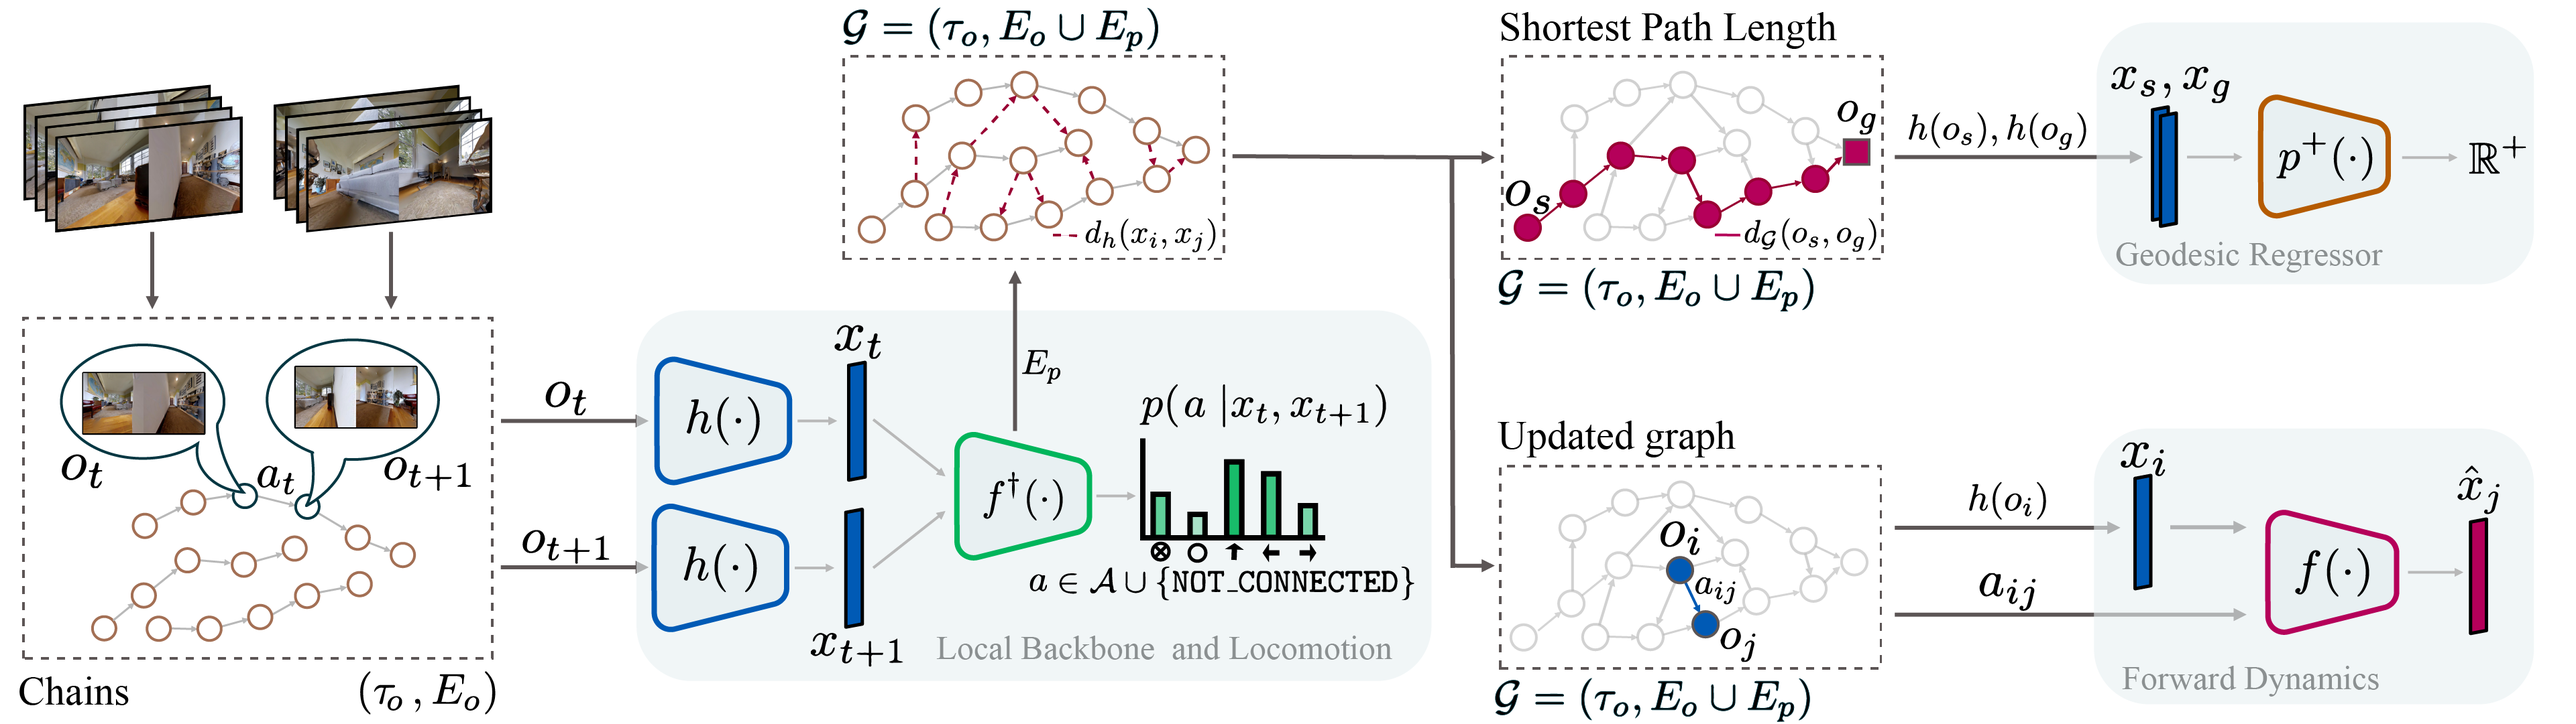
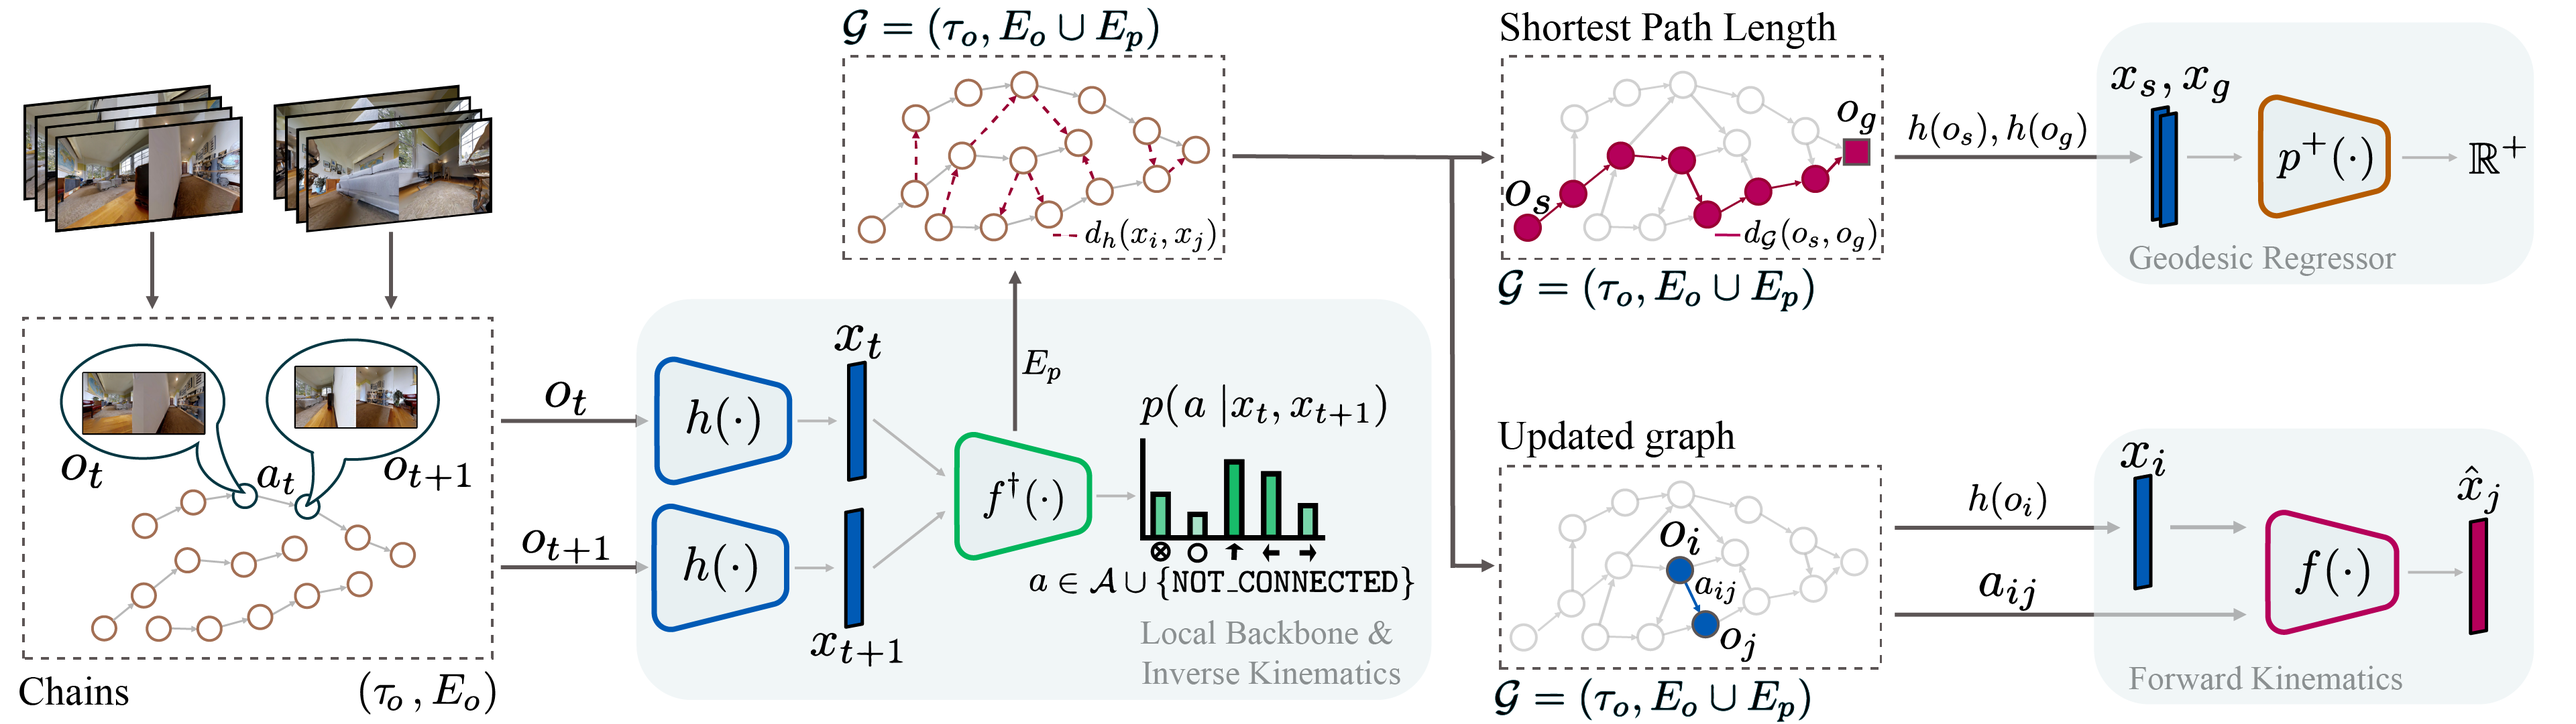
Updated diagrams, renamed components and announced publication

Changed region(s): [[0.3749, 0.8548, 0.5624, 0.9463], [0.8123, 0.9158, 0.9373, 0.9769], [0.8123, 0.3358, 0.9373, 0.3969]]

diff --git a/index.md b/index.md
@@ -10,6 +10,8 @@ permalink: index.html
 <!--Actual Page-->
 <h1 style="text-align: center; font-family: Helvetica, sans-serif">One-4-All: Neural Potential Fields for Embodied Navigation</h1>
 
+<h3 style="text-align: center; font-family: Helvetica, sans-serif">IEEE/RSJ International Conference on Intelligent Robots and Systems (IROS 2023)</h3>
+
 {% include_relative _relative_includes/authors.html %}
 <div style="text-align: center;"><em>*Authors contributed equally.</em></div>
 <br>
@@ -51,7 +53,7 @@ actions $\actiontraj = \{a_t\}_{t=1}^T$, without pose: </p>
 takes as input RGB images  to produce low-dimensional latent codes $\code \in \latentspace$ and is trained with a 
 self-supervised time contrastive objective. Once trained, the local backbone can output a local metric $\norm{\code_t - \code_s}$
 to measure similarity between observations. The extracted codes will also be used as inputs for other modules;</li>
-<li>The <a style="font-weight: bold">locomotion head </a> $\conn$ (center) uses pairs of latent codes to predict the action required to 
+<li>The <a style="font-weight: bold">inverse kinematics head </a> $\conn$ (center) uses pairs of latent codes to predict the action required to 
 traverse from one latent code to the other (order matters), or the inability to do so through the 
 $\mathtt{NOT\_CONNECTED}$ output;</li>
 </ul>
@@ -60,7 +62,7 @@ $\mathtt{NOT\_CONNECTED}$ output;</li>
 $\graph$, where nodes represent images. Edges represent one-action traversability and are weighted using the local metric. 
 $\graph$ will not be required for navigation, and is only relied on to derive training objectives for the last two components:</p> 
 <ul>
-<li>The <a style="font-weight: bold">forward dynamics
+<li>The <a style="font-weight: bold">forward kinematics
 head </a> (bottom right) $\fd$ is trained using edges from $\graph$ to predict the next code $\code_j$ 
 given the current code $\code_i$ and an action $a_{ij} \in \actions$;</li>
 <li>The <a style="font-weight: bold"> geodesic regressor </a> $\georeg$ (top right), which 
